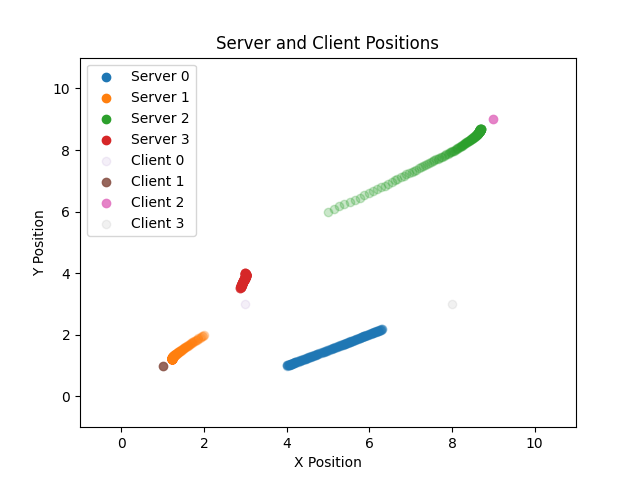
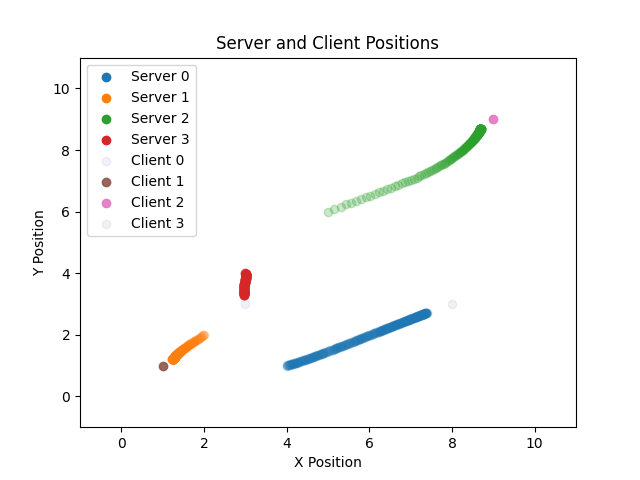
Finished 1? Added importance function plotting and experiment infra. Switched axes on importance plot.

diff --git a/PSET3/coverage-spoof.py b/PSET3/coverage-spoof.py
@@ -51,8 +51,7 @@ class Environment(object):
         self.pointsy = np.arange(0, height, res)
 
         self.alpha = alpha # "free parameter" from Schwager et al., Section 2.2
-        self.importance = np.zeros((height, width))
-
+        self.importance = np.zeros((len(self.pointsx), len(self.pointsy)))
 
     def define_rho(self):
         # From paper [1]
@@ -124,7 +123,7 @@ class Environment(object):
 
 
 # function to run the simulation
-def run_grid(env, iter):
+def run_grid(env, iter, part):
     x = []
     y = []
 
@@ -142,7 +141,8 @@ def run_grid(env, iter):
 
     # run environment for iterations
     for k in range(iter):
-        env.sample_alphas(env.spoof_mean, env.legit_mean)
+        if part != "B":
+            env.sample_alphas(env.spoof_mean, env.legit_mean)
         env.update_gradient()
         env.moves()
 
@@ -181,12 +181,28 @@ def run_grid(env, iter):
     ax.set_xlim((-1, 11))
     ax.set_ylim((-1, 11))
 
-    plt.title("Server and Client Positions")
+    if part == "B":
+        plt.title("Server and Client Positions\n(Not Alpha-Modified)")
+    else:
+        plt.title("Server and Client Positions\nSpoofer Mean = " + str(env.spoof_mean) + ", Legit Mean = " + str(env.legit_mean))
     plt.xlabel("X Position")
     plt.ylabel("Y Position")
     leg = plt.legend(loc='upper left')
     for idx, lh in enumerate(leg.legendHandles): 
         lh.set_alpha(legend_alphas[idx])
+
+    # Plot importance function
+    f = plt.figure()
+    ax1 = plt.axes(projection='3d')
+    x = env.pointsx
+    y = env.pointsy
+    Y, X = np.meshgrid(x, y)
+    ax1.plot_surface(X, Y, env.importance, rstride=1, cstride=1,
+            cmap='viridis', edgecolor='none')
+    ax1.set_title('Importance Function')
+    ax1.set_xlabel("X Position")
+    ax1.set_ylabel("Y Position")
+    ax1.set_zlabel("Importance")
 
     plt.show()
 
@@ -204,6 +220,18 @@ if __name__ == "__main__":
     client4 = Client([8,3], True)
     clients = [client1, client2, client3, client4]
 
-    env = Environment(10, 10, 0.1, servers, clients)
+    part = "Eii"
+    if part == "B":
+        env = Environment(10, 10, 0.1, servers, clients)
+    elif part == "D":
+        env = Environment(10, 10, 0.1, servers, clients, 0.2, 0.8)
+    elif part == "Ei1":
+        env = Environment(10, 10, 0.1, servers, clients, 0.01, 0.99)
+    elif part == "Ei2":
+        env = Environment(10, 10, 0.1, servers, clients, 0.99, 0.01)
+    elif part == "Eii":
+        env = Environment(10, 10, 0.1, servers, clients, 0.5, 0.5)
+    else:
+        raise ValueError("part can only equal 'B', 'D', 'Ei1', 'Ei2', or 'Eii'")
 
-    run_grid(env,200 )
+    run_grid(env, 10, part)
